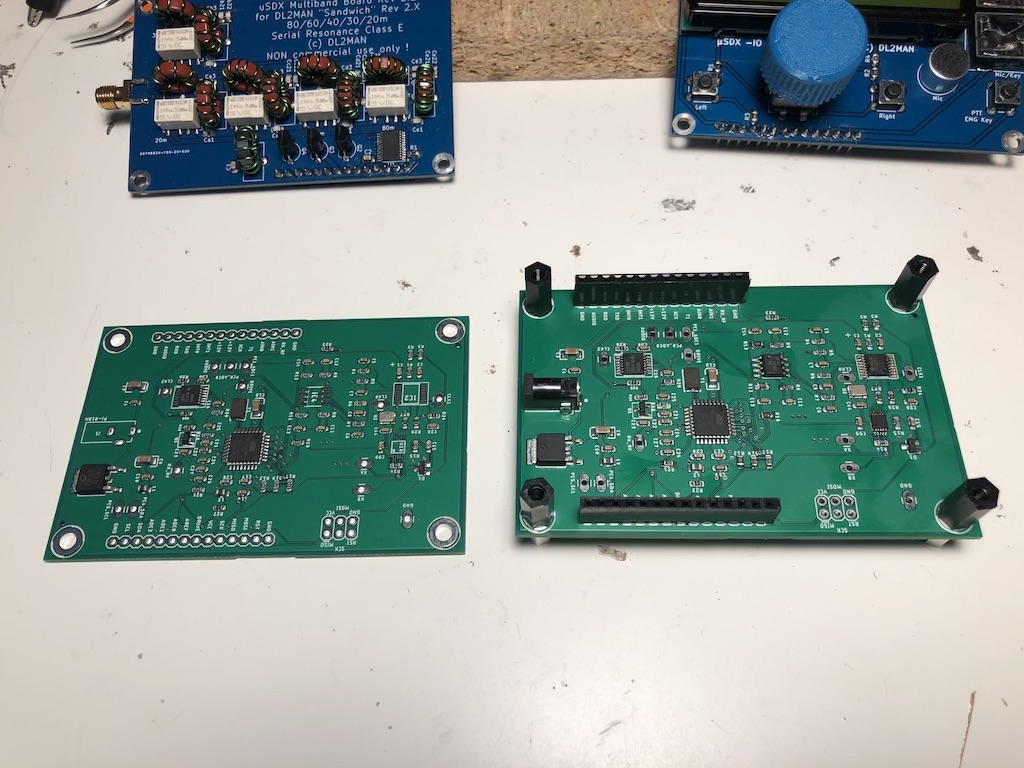
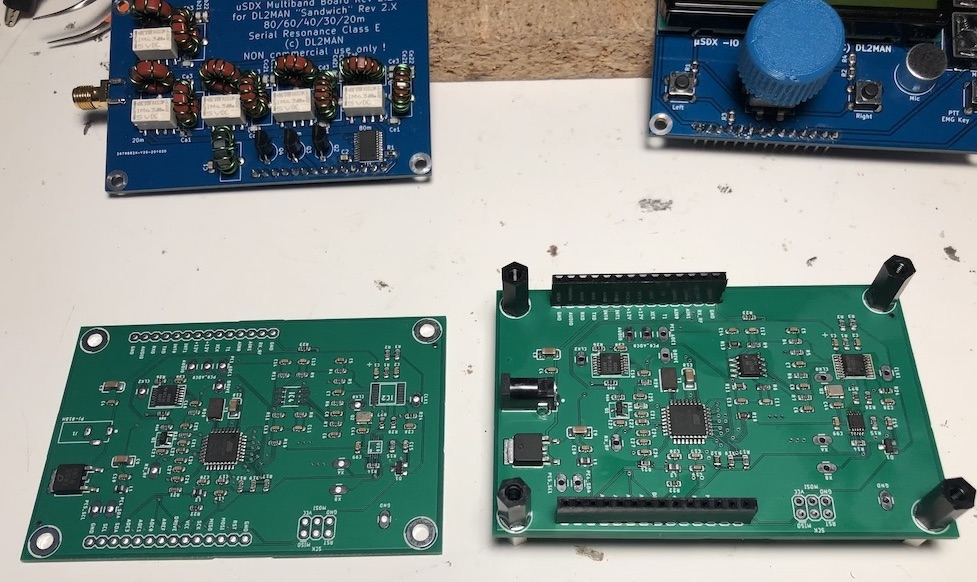
Add picture

diff --git a/README.md b/README.md
@@ -2,6 +2,8 @@
 
 ## A drop-in replacement for the [DL2MAN Sandwich Mainboard v2.4](https://dl2man.de/mainboard/)
 
+![tqfp-sandwitch](tqfp-sandwitch.jpg)
+
 Benefits:
 
 - ATM328P on TQFP-32 footprint + all SMD components + single side, 2 layers design ($2 per 5 bare PCBs at JLCPCB)
